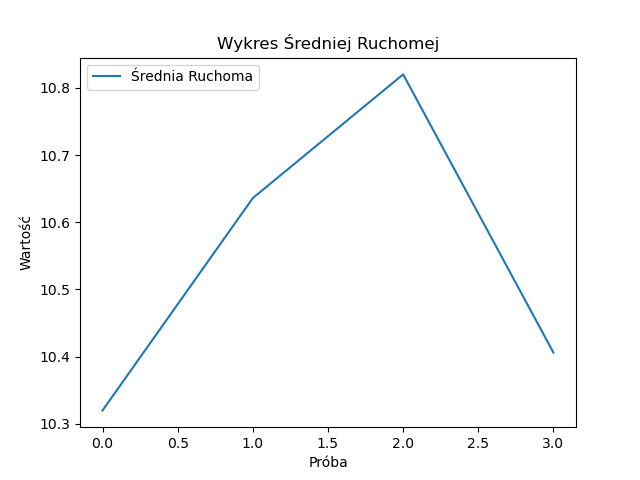
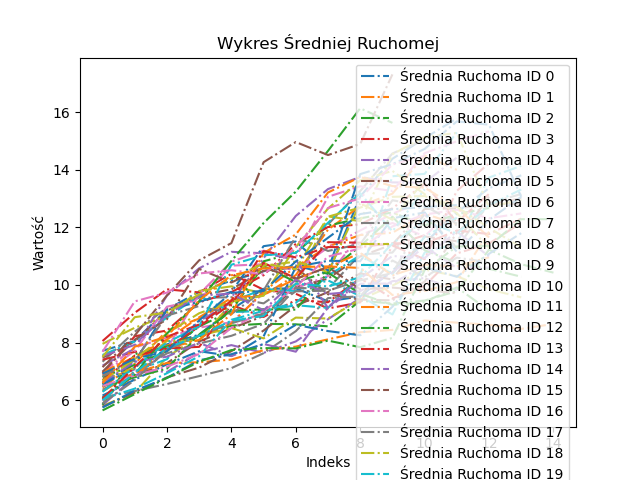
General Fix

diff --git a/main.py b/main.py
@@ -21,8 +21,9 @@ DARK_GRAY = (150, 150, 150)
 WINDOW_WIDTH = 1200
 WINDOW_HEIGHT = 840
 
-RESULTS = []
-RESULTS_DICT = {}
+RESULTS = defaultdict(list)
+num_simulations = 53
+simulation_id = None
 
 pygame.init()
 pygame.display.set_mode((WINDOW_WIDTH, WINDOW_HEIGHT))
@@ -124,7 +125,7 @@ class Person:
         # Jechanie windą do konkretnego piętra
         if self.direction_floor == elevator.current_floor and self.state == 2:
             self.time = round(time.time() - self.time_start, 2)
-            RESULTS.append(self.time)
+            RESULTS[simulation_id].append(self.time)
             self.state = 3
             elevator.num_in -= 1
             elevator.open_close()
@@ -267,7 +268,7 @@ class Menu:
             'simulation_time': {
                 'rect_x': SLIDERS_X,
                 'rect_y': CENTER_Y + MARGIN*-2,
-                'value': 0.0,
+                'value': 10.0,
                 'dragging': False,
                 'integer': True,
                 'min': 0,
@@ -276,7 +277,7 @@ class Menu:
             'people_generation_freq': {
                 'rect_x': SLIDERS_X,
                 'rect_y': CENTER_Y + MARGIN*-1,
-                'value': 1.0,
+                'value': 99.0,
                 'dragging': False,
                 'integer': True,
                 'min': 1,
@@ -294,7 +295,7 @@ class Menu:
             'elevator_speed': {
                 'rect_x': SLIDERS_X,
                 'rect_y': CENTER_Y + MARGIN*1,
-                'value': 2,
+                'value': 6,
                 'dragging': False,
                 'integer': True,
                 'min': 1,
@@ -359,7 +360,18 @@ class Menu:
             slider['value'] = int(slider['value'])
 
     def start_new_simulation(self):
-        simulation = Simulation(
+        
+
+        global simulation_id
+
+        simulation = None
+
+        for simulation_id in range(num_simulations):
+
+            del simulation
+
+            simulation = Simulation(
+
             window=self.window,
             total_floors=self.sliders['total_floors']['value'],
             simulation_time=self.sliders['simulation_time']['value'],
@@ -368,7 +380,10 @@ class Menu:
             elevator_capacity=self.sliders['elevator_capacity']['value'],
             speed=self.sliders['elevator_speed']['value']
         )
-        simulation.main()
+            print(f"Simulation {simulation_id + 1}/{num_simulations} ")
+            simulation.main()
+        
+        simulation.show_results()
 
     def draw_slider(self, slider, label):
         pygame.draw.rect(self.window, BLACK, (slider['rect_x'], slider['rect_y'], 200, 10))
@@ -499,19 +514,30 @@ class Simulation:
             text = font.render(f'Piętro {i}', True, BLACK)
             self.window.blit(text, (10, y + 5))
 
-    def take_stats(self, moving_mean_window_size = 5):
-        data = np.array(RESULTS)
-        mean = np.mean(data)
-        std = np.std(data)
-        
-        window_size = moving_mean_window_size
-        moving_mean = np.convolve(data, np.ones(window_size)/window_size, mode='valid')
-        random_time = rd.choice(RESULTS[int(0.2*len(RESULTS)):])
 
-        self.mean = mean
-        self.std = std
-        self.random_time = random_time
-        self.moving_mean = moving_mean
+    def take_stats(self, moving_mean_window_size = 5):
+        
+        random_persons = []
+        self.moving_means = []
+
+        for _i in range(num_simulations):
+
+            data = np.array(RESULTS[_i])
+            #mean = np.mean(data)
+            #std = np.std(data)
+            
+            window_size = moving_mean_window_size
+            moving_mean = np.convolve(data, np.ones(window_size)/window_size, mode='valid')
+            random_time = rd.choice(RESULTS[_i][int(0.2*len(RESULTS)):])
+            random_persons.append(random_time)
+            self.moving_means.append(moving_mean)
+            # self.mean = mean
+            # self.std = std
+            # self.random_time = random_time
+        
+        operation_data = np.array(random_persons)
+        self.mean = np.mean(operation_data)
+        self.std = np.std(operation_data)
 
 
     def display_statistics(self):
@@ -522,12 +548,15 @@ class Simulation:
 
         mean_text = font.render(f"Średnia: {self.mean:.2f}", True, BLACK)
         std_text = font.render(f"Odchylenie Standardowe: {self.std:.2f}", True, BLACK)
-        random_person_handling_time = font.render(f"Czas Obsługi Pojedynczej Losowej Osoby: {self.random_time}", True, BLACK)
+        #random_person_handling_time = font.render(f"Czas Obsługi Pojedynczej Losowej Osoby: {self.random_time}", True, BLACK)
 
 
         plt.figure()
-        plt.plot(self.moving_mean, label="Średnia Ruchoma")
-        plt.xlabel("Próba")
+        line_styles = ['-.']
+        for i, moving_mean in enumerate(self.moving_means):
+            #print(moving_mean)
+            plt.plot(moving_mean, label=f"Średnia Ruchoma ID {i}", linestyle=line_styles[i % len(line_styles)])
+        plt.xlabel("Indeks")
         plt.ylabel("Wartość")
         plt.title("Wykres Średniej Ruchomej")
         plt.legend()
@@ -541,13 +570,11 @@ class Simulation:
 
         self.window.blit(mean_text, (10, 550))
         self.window.blit(std_text, (10, 580))
-        self.window.blit(random_person_handling_time, (10, 610))
+        #self.window.blit(random_person_handling_time, (10, 610))
 
     def main(self):
                             
         while self.run:
-
-            RESULTS = []
 
             if time.time() - self.start_timer > self.simulation_time:
                 self.run_stats_time = True
@@ -585,7 +612,7 @@ class Simulation:
 
             self.draw_floors()
             self.draw_button(self.manual_mode)
-            self.draw_back_button()
+
 
             self.elevator.draw()
 
@@ -598,12 +625,14 @@ class Simulation:
                         
                     person.move(self.elevator)
                     person.draw(self.window)
-                     
-            
+
+
+            self.draw_back_button()            
             pygame.display.update()
 
-        #print(RESULTS)
 
+    def show_results(self):
+        
         if self.run_stats_time:
             self.take_stats()
 
